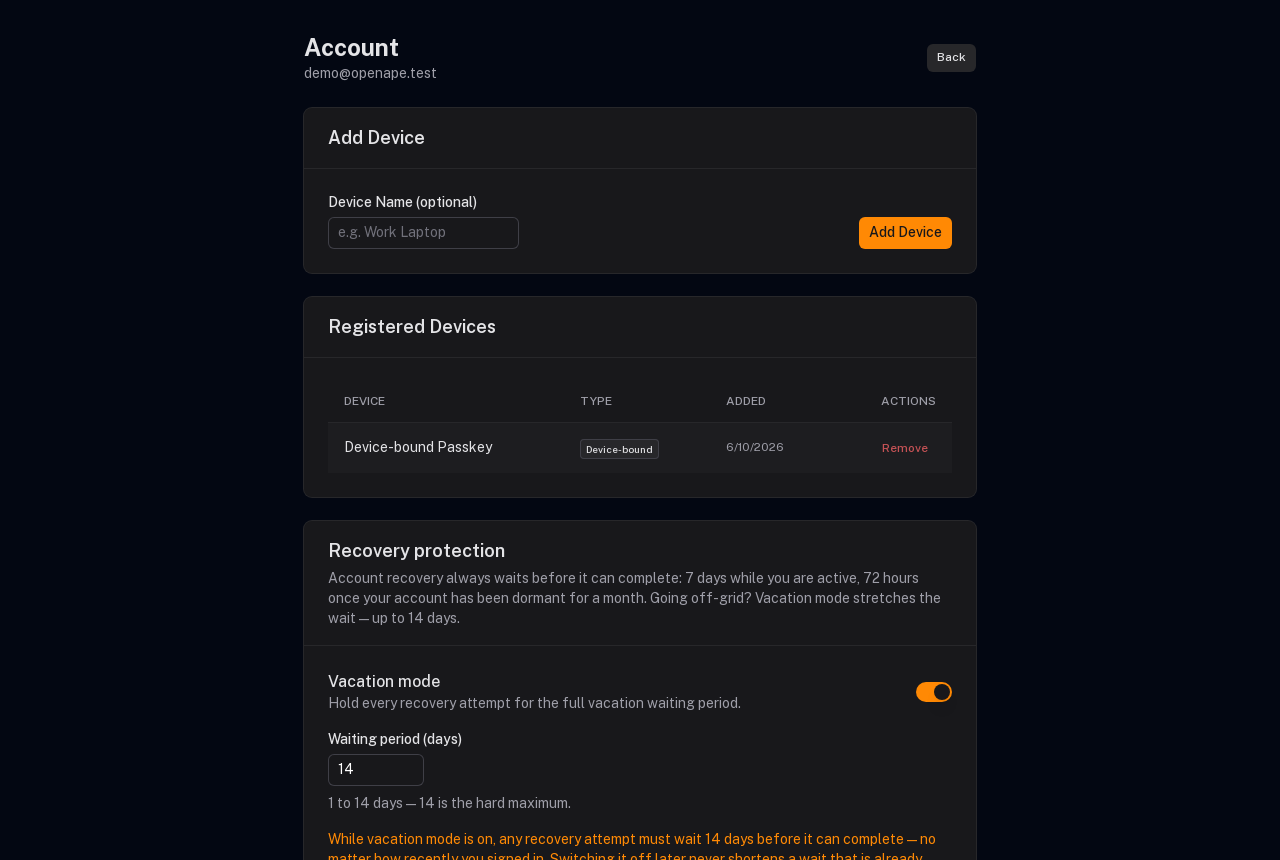
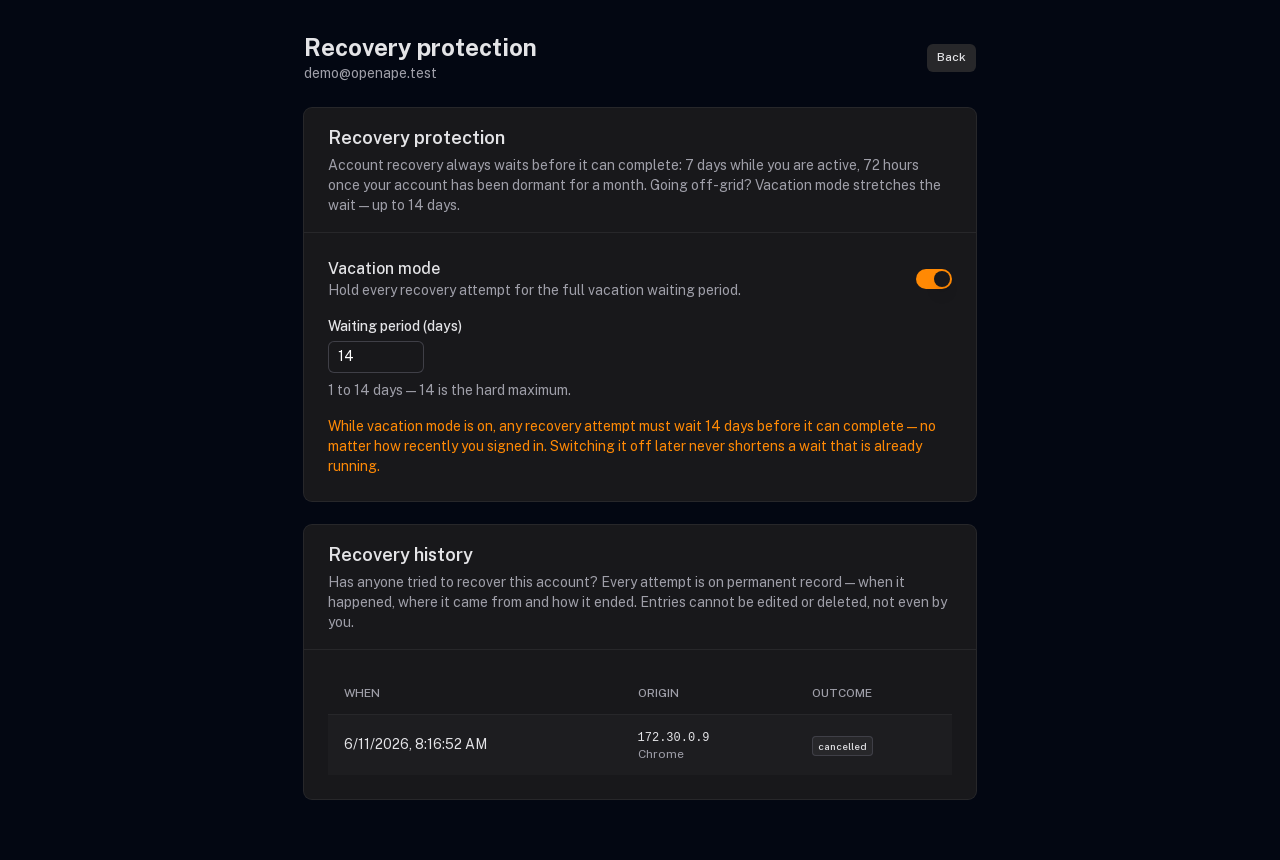
docs: regenerate idp guides for the recovery-protection focus page

diff --git a/apps/openape-free-idp/app/docs.generated.ts b/apps/openape-free-idp/app/docs.generated.ts
@@ -1,2 +1,2 @@
 // AUTO-GENERATED from docs/stories.json by scripts/build-docs.mjs — do not edit.
-export const docsGuide = {"categories":[{"title":"Getting started","stories":[{"id":"create-identity","title":"Create your identity","introHtml":"<p>Register a WebAuthn passkey — no password, ever. Your OpenApe ID becomes the DDISA authority for your identity: every Service Provider logs you in via DNS-discovered SSO without ever seeing a credential.</p>\n","steps":[{"title":"Open OpenApe ID","html":"The landing page asks for nothing but your email. Click <strong>Create account</strong> to start.","shot":"/docs/screenshots/create-identity/01-landing.png"},{"title":"Request your registration link","html":"Enter your email — OpenApe ID sends you a one-time registration link.","shot":"/docs/screenshots/create-identity/02-request-link.png"},{"title":"Register your passkey","html":"The link opens the passkey ceremony. Your device (Touch ID, Windows Hello, a security key) creates the credential — in this E2E run a virtual authenticator answers headlessly.","shot":"/docs/screenshots/create-identity/03-register-passkey.png"},{"title":"Done — you are signed in","html":"That&#39;s the whole sign-up: one passkey, no password to remember or leak.","shot":"/docs/screenshots/create-identity/04-registered.png"}]}]},{"title":"Account","stories":[{"id":"account-dashboard","title":"Your account dashboard","introHtml":"<p>Your dashboard is home base for your identity. Passkeys, SSH keys, agents, permissions, delegations and connected services each have their own page, so you go straight to the one you need.</p>\n","steps":[{"title":"Open your dashboard","html":"Once you&#39;re signed in, the dashboard brings together everything tied to your identity — passkeys, SSH keys, agents, permissions, delegations and connected services. Choose an area to open it.","shot":"/docs/screenshots/account-dashboard/01-dashboard.png"},{"title":"Manage your passkeys","html":"Open <strong>Passkeys</strong> to manage how you sign in — add a new device, or remove one you no longer use.","shot":"/docs/screenshots/account-dashboard/02-passkeys.png"},{"title":"Manage your SSH keys","html":"<strong>SSH keys</strong> holds the public keys for <em>Sign in with SSH Key</em>. Paste a key to add it, or remove one you&#39;ve retired.","shot":"/docs/screenshots/account-dashboard/03-ssh-keys.png"},{"title":"Review connected services","html":"<strong>Connected services</strong> lists the apps you&#39;ve signed in to with your OpenApe ID. Revoke one and you&#39;ll be asked to approve it again next time. Apps acting for you at <em>another</em> service live under <strong>Delegations</strong>.","shot":"/docs/screenshots/account-dashboard/04-connected-services.png"}]}]},{"title":"Agents","stories":[{"id":"agent-identities","title":"Your agent identities","introHtml":"<p>Agents are first-class identities under your account: the IdP mints them a DDISA email and you stay in control.</p>\n","steps":[{"title":"Open Agents at your IdP","html":"Every agent spawned from your nests appears here with its own <code>…@id.openape.ai</code> identity — inspect it, or revoke it independently of your own keys.","shot":"/docs/screenshots/agent-identities/01-agents.png"}]}]}]}
+export const docsGuide = {"categories":[{"title":"Getting started","stories":[{"id":"create-identity","title":"Create your identity","introHtml":"<p>Register a WebAuthn passkey — no password, ever. Your OpenApe ID becomes the DDISA authority for your identity: every Service Provider logs you in via DNS-discovered SSO without ever seeing a credential.</p>\n","steps":[{"title":"Open OpenApe ID","html":"The landing page asks for nothing but your email. Click <strong>Create account</strong> to start.","shot":"/docs/screenshots/create-identity/01-landing.png"},{"title":"Request your registration link","html":"Enter your email — OpenApe ID sends you a one-time registration link.","shot":"/docs/screenshots/create-identity/02-request-link.png"},{"title":"Register your passkey","html":"The link opens the passkey ceremony. Your device (Touch ID, Windows Hello, a security key) creates the credential — in this E2E run a virtual authenticator answers headlessly.","shot":"/docs/screenshots/create-identity/03-register-passkey.png"},{"title":"Done — you are signed in","html":"That&#39;s the whole sign-up: one passkey, no password to remember or leak.","shot":"/docs/screenshots/create-identity/04-registered.png"}]}]},{"title":"Account","stories":[{"id":"account-dashboard","title":"Your account dashboard","introHtml":"<p>Your dashboard is home base for your identity. Passkeys, SSH keys, agents, permissions, delegations and connected services each have their own page, so you go straight to the one you need.</p>\n","steps":[{"title":"Open your dashboard","html":"Once you&#39;re signed in, the dashboard brings together everything tied to your identity — passkeys, SSH keys, agents, permissions, delegations and connected services. Choose an area to open it.","shot":"/docs/screenshots/account-dashboard/01-dashboard.png"},{"title":"Manage your passkeys","html":"Open <strong>Passkeys</strong> to manage how you sign in — add a new device, or remove one you no longer use.","shot":"/docs/screenshots/account-dashboard/02-passkeys.png"},{"title":"Manage your SSH keys","html":"<strong>SSH keys</strong> holds the public keys for <em>Sign in with SSH Key</em>. Paste a key to add it, or remove one you&#39;ve retired.","shot":"/docs/screenshots/account-dashboard/03-ssh-keys.png"},{"title":"Review connected services","html":"<strong>Connected services</strong> lists the apps you&#39;ve signed in to with your OpenApe ID. Revoke one and you&#39;ll be asked to approve it again next time. Apps acting for you at <em>another</em> service live under <strong>Delegations</strong>.","shot":"/docs/screenshots/account-dashboard/04-connected-services.png"}]}]},{"title":"Account security","stories":[{"id":"account-recovery","title":"Recover your account — or stop an attack in one tap","introHtml":"<p>Lost every device with a passkey? Account recovery lets you enrol a new one after a waiting period — and because every recovery attempt is announced loudly on all your channels, an attacker can never run one quietly. This is the whole flow, from both sides.</p>\n","steps":[{"title":"Start a recovery","html":"On the sign-in page choose <strong>Lost access?</strong> — no password reset, no support ticket. Recovery only ever grants permission to register a new passkey; it never signs anyone in by itself.","shot":"/docs/screenshots/account-recovery/01-start-recovery.png"},{"title":"Request it for your email","html":"Enter your account email. OpenApe ID answers the same way whether the address has an account or not, so nobody can use this form to probe for accounts. If it is yours, the waiting period starts now.","shot":"/docs/screenshots/account-recovery/02-requested.png"},{"title":"Every channel gets the warning","html":"The warning goes out immediately: a push notification to every device you enabled notifications on, and a mail to every address that was ever linked to your account — even ones you replaced years ago. A single compromised mailbox cannot swallow the alarm. Each warning names the exact moment the recovery could complete and carries a one-tap <strong>Cancel recovery</strong> link that works without signing in.","shot":"/docs/screenshots/account-recovery/03-warning-sent.png"},{"title":"Cancel it in one tap","html":"Didn&#39;t request it? Tap <strong>Cancel recovery</strong> in any warning — or on your <strong>Recovery protection</strong> page, one click from the dashboard — and the attempt is dead for good. A cancelled recovery can never be completed, not even after its waiting period would have ended. Signing in with one of your existing passkeys cancels it automatically, too.","shot":"/docs/screenshots/account-recovery/04-cancelled.png"}]},{"id":"recovery-vacation-mode","title":"Vacation mode: a longer shield while you are away","introHtml":"<p>The recovery waiting period adapts to how you use your account: 7 days while you are active, 72 hours once an account has been dormant for a month. Going off-grid? Vacation mode stretches the shield to up to 14 days so nobody can take over your account while you cannot react.</p>\n","steps":[{"title":"Open Recovery protection","html":"Open <strong>Recovery protection</strong> from your dashboard. Vacation mode lives here, in your account settings — only you, signed in, can change it. There is no way to flip it from the outside.","shot":"/docs/screenshots/recovery-vacation-mode/01-settings.png"},{"title":"Switch on vacation mode","html":"Switch it on and pick how long a recovery attempt has to wait — up to 14 days, which is also the hard maximum. While it is on, the vacation wait applies no matter how recently you signed in.","shot":"/docs/screenshots/recovery-vacation-mode/02-vacation-on.png"},{"title":"Your shield is set","html":"That&#39;s it. A recovery requested from now on is bound to the wait that applied at the moment of the request — switching vacation mode off later never shortens a deadline that is already running.","shot":"/docs/screenshots/recovery-vacation-mode/03-vacation-set.png"}]},{"id":"recovery-history","title":"See every recovery attempt — nothing disappears","introHtml":"<p>Every recovery attempt against your account is on permanent record: when it happened, where it came from, and how it ended. Attackers cannot probe quietly, and nobody — not even you — can scrub the record.</p>\n","steps":[{"title":"Open Recovery protection","html":"The recovery history sits on your <strong>Recovery protection</strong> page, right under vacation mode — visible only to you while signed in.","shot":"/docs/screenshots/recovery-history/01-settings.png"},{"title":"Review every attempt","html":"Each entry shows when the attempt was made, where it came from (IP address and browser, as far as known) and what became of it: still running — including the moment it could complete — finished, cancelled, or expired unused. Entries contain no links or codes an attacker could reuse, and they can neither be edited nor deleted: the cancelled attempt from the previous chapter stays on record forever.","shot":"/docs/screenshots/recovery-history/02-history.png"}]}]},{"title":"Agents","stories":[{"id":"agent-identities","title":"Your agent identities","introHtml":"<p>Agents are first-class identities under your account: the IdP mints them a DDISA email and you stay in control.</p>\n","steps":[{"title":"Open Agents at your IdP","html":"Every agent spawned from your nests appears here with its own <code>…@id.openape.ai</code> identity — inspect it, or revoke it independently of your own keys.","shot":"/docs/screenshots/agent-identities/01-agents.png"}]}]}]}

diff --git a/stories/recovery-broadcast.md b/stories/recovery-broadcast.md
@@ -12,7 +12,9 @@ guide: account-recovery
 ---
 
 > Green-Beweis: alle drei Vitest-Files grün (Kriterien 1, 2, 3, 5, 6 implementiert;
-> Kriterien 4 und 7 als Pins weiter grün). Story-Kit-Lauf `account-recovery` auf
+> Kriterien 4 und 7 als Pins weiter grün).
+> UI auf neue Account-IA umgezogen (main 054075b6): Cancel-Step läuft über die
+> Fokus-Seite /recovery-protection. Kriterien unverändert. Story-Kit-Lauf `account-recovery` auf
 > dem Demo-Stack grün (2026-06-10), Guide-Kapitel mit Screenshots generiert
 > (Lost-access-Flow + Ein-Tap-Abbruch im Konto). Guide-Review durch Patrick bestanden (2026-06-11).
 
